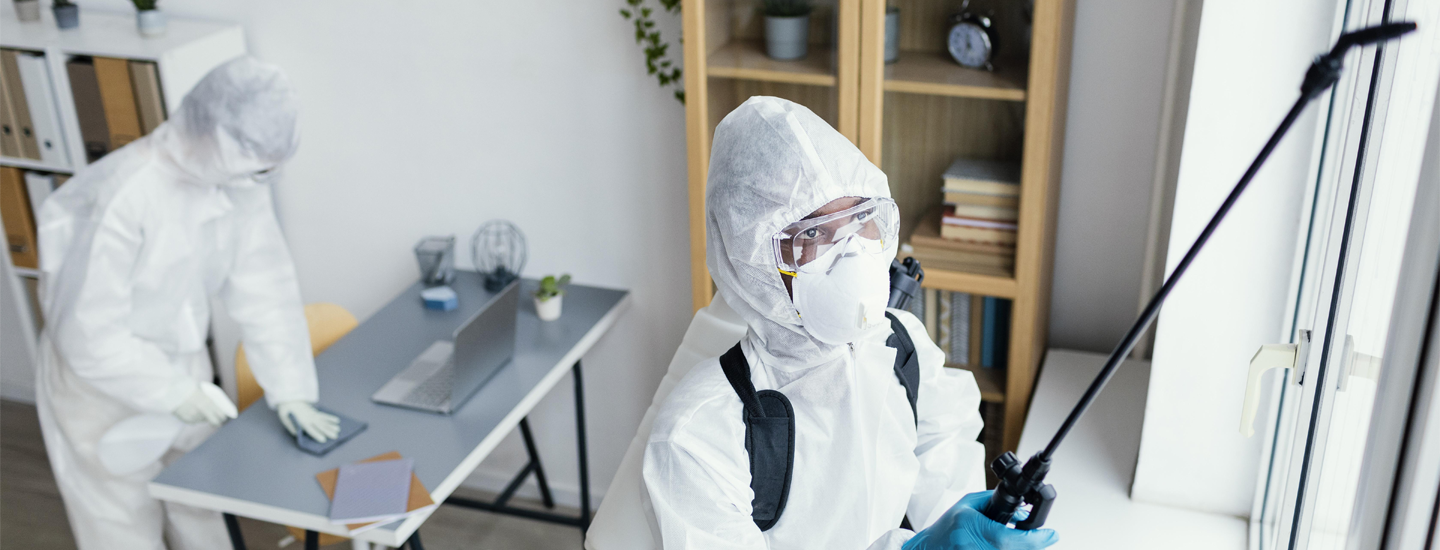
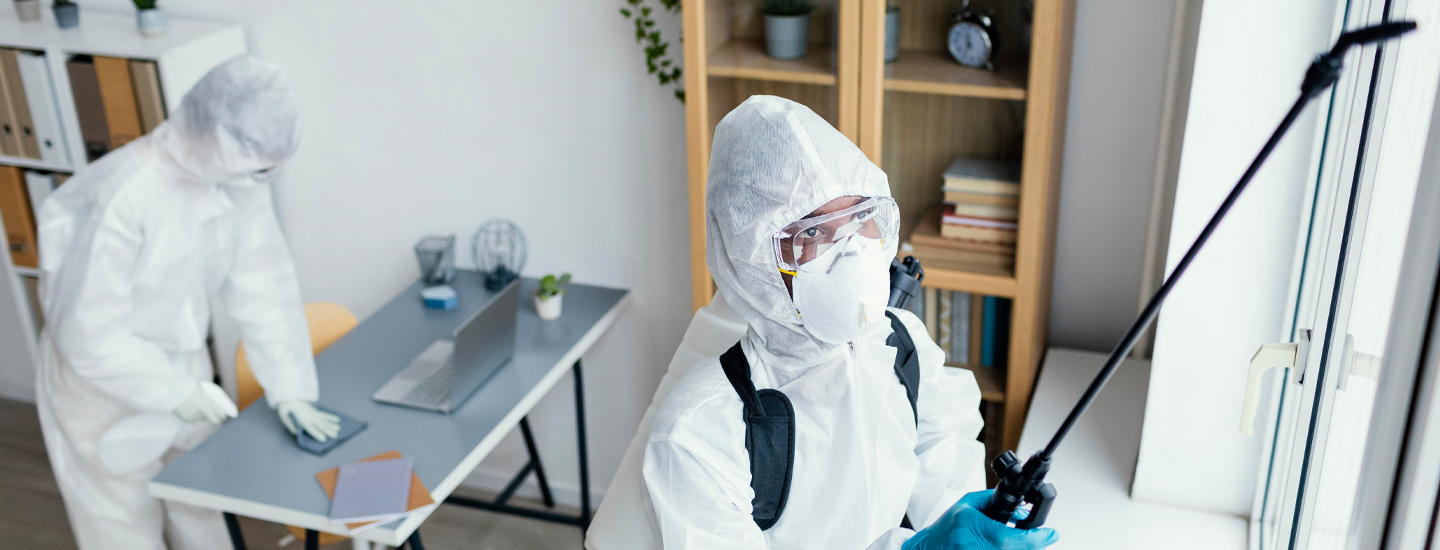
Melhorando a responsividade.

diff --git a/src/components/MyCarousel/MyCarousel.jsx b/src/components/MyCarousel/MyCarousel.jsx
@@ -38,7 +38,7 @@ function MyCarousel() {
             </Carousel.Item>
 
             <Carousel.Item>
-                <img className="carouselImg" src="./blood.jpg" alt="Blood" />
+                <img className="carouselImg" src="./blood.png" alt="Blood" />
                 <Carousel.Caption>
                     <div className="boxCarousel">
                         <h3 className='titleCarousel'>Blood Cleanup</h3>

diff --git a/src/components/Footer/footer.css b/src/components/Footer/footer.css
@@ -22,7 +22,6 @@
     height: 30px;
     border-radius: 8px;
     font-weight: 900;
-    margin-left: 70px;
 }
 
 .footerP {
@@ -48,5 +47,6 @@
         justify-content: center;
         align-items: center;
         margin-bottom: 10px;
+        margin-left: 0;
     }
 }

diff --git a/src/components/MyCarousel/myCarousel.css b/src/components/MyCarousel/myCarousel.css
@@ -31,6 +31,15 @@
     padding-bottom: 40px;
 }
 
+.slides {
+    display: flex;
+    justify-content: center;
+    align-items: center;
+}
+
+
+
+
 @media screen and (max-width: 576px) {
     .carouselImg {
         width: 100vh;

diff --git a/src/index.css b/src/index.css
@@ -49,11 +49,7 @@
   border-radius: 32px;
 }
 
-@media screen and (max-width: 579px) {
-  body {
-    padding: 20px;
-  }
-
+@media screen and (max-width: 576px) {
   .title {
       text-align: center;
       margin-bottom: 0;

diff --git a/src/components/Cards/cards.css b/src/components/Cards/cards.css
@@ -35,3 +35,9 @@
     display: block;
     align-items: center;
 }
+
+@media screen and (max-width: 576px) {
+    .cardsH1 {
+        text-align: center;
+    }
+}

diff --git a/src/components/MyNavBar/myNavBar.css b/src/components/MyNavBar/myNavBar.css
@@ -35,4 +35,12 @@
         justify-content: center;
     }
 
+    .navImg {
+        width: 250px;
+    }
+
+    .navCall {
+        display: none;
+    }
+
 }
